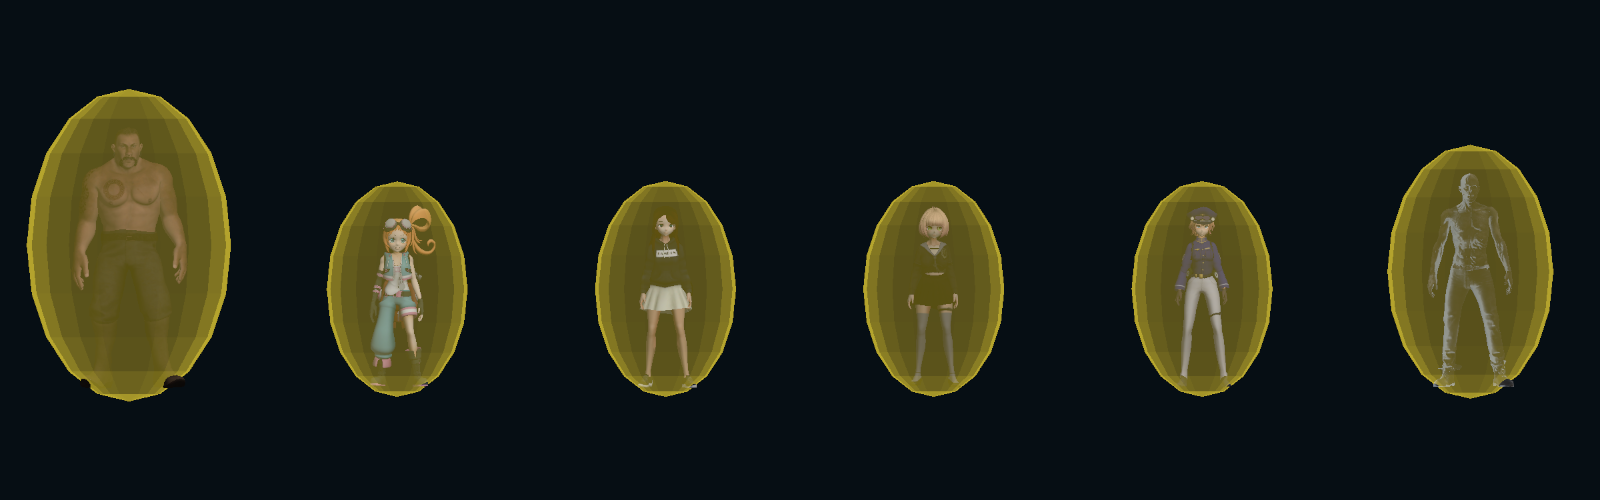
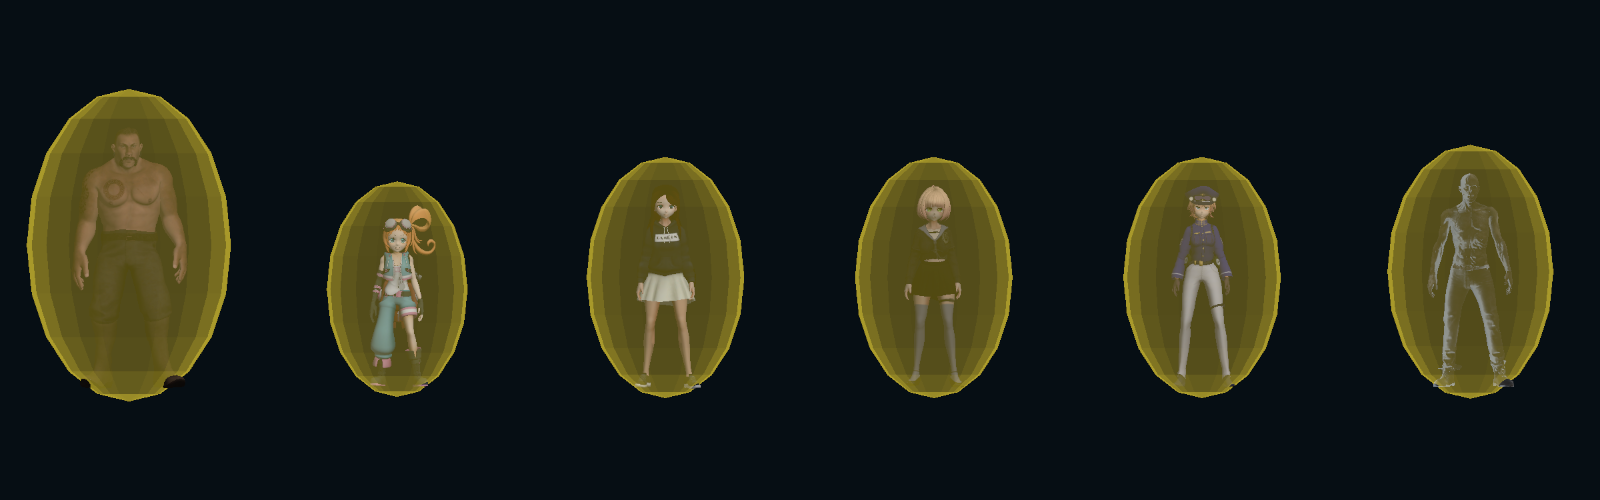
adjust(characters): raise selected character heights to 95 percent

Changed region(s): [[0.6875, 0.3, 0.8125, 0.78], [0.3438, 0.3, 0.4688, 0.81], [0.5312, 0.3, 0.6562, 0.81]]

diff --git a/Assets/Player/Script/Editor/Tests/CharacterVisualAlignmentTests.cs b/Assets/Player/Script/Editor/Tests/CharacterVisualAlignmentTests.cs
@@ -88,7 +88,7 @@ namespace BattlePvp.EditorTests
         }
 
         [TestCase("security-officer")] [TestCase("megumi")] [TestCase("casual-1")]
-        public void RequestedCharactersStandFifteenPercentShorterThanDefault(string id)
+        public void RequestedCharactersStandFivePercentShorterThanDefault(string id)
         {
             var player = Object.Instantiate(AssetDatabase.LoadAssetAtPath<GameObject>("Assets/Prefabs/Player.prefab"));
             var graph = PlayableGraph.Create("Standing character height");
@@ -112,11 +112,11 @@ namespace BattlePvp.EditorTests
                 float originalHeight = StandingHeight();
                 Assert.That(skin.Apply(Catalog.Find(id), out var error), Is.True, error);
                 skin.SyncPose();
-                Assert.That(StandingHeight() / originalHeight, Is.EqualTo(.85f).Within(.015f),
+                Assert.That(StandingHeight() / originalHeight, Is.EqualTo(.95f).Within(.015f),
                     "Measure the rendered standing silhouette, including hair and shoes.");
                 player.transform.localScale = Vector3.one * 1.2f;
                 graph.Evaluate(0); skin.SyncPose();
-                Assert.That(StandingHeight() / originalHeight, Is.EqualTo(.85f).Within(.015f),
+                Assert.That(StandingHeight() / originalHeight, Is.EqualTo(.95f).Within(.015f),
                     "The same relative height must survive a larger preset.");
                 skin.Restore();
                 Assert.That(StandingHeight(), Is.EqualTo(originalHeight).Within(.002f));
